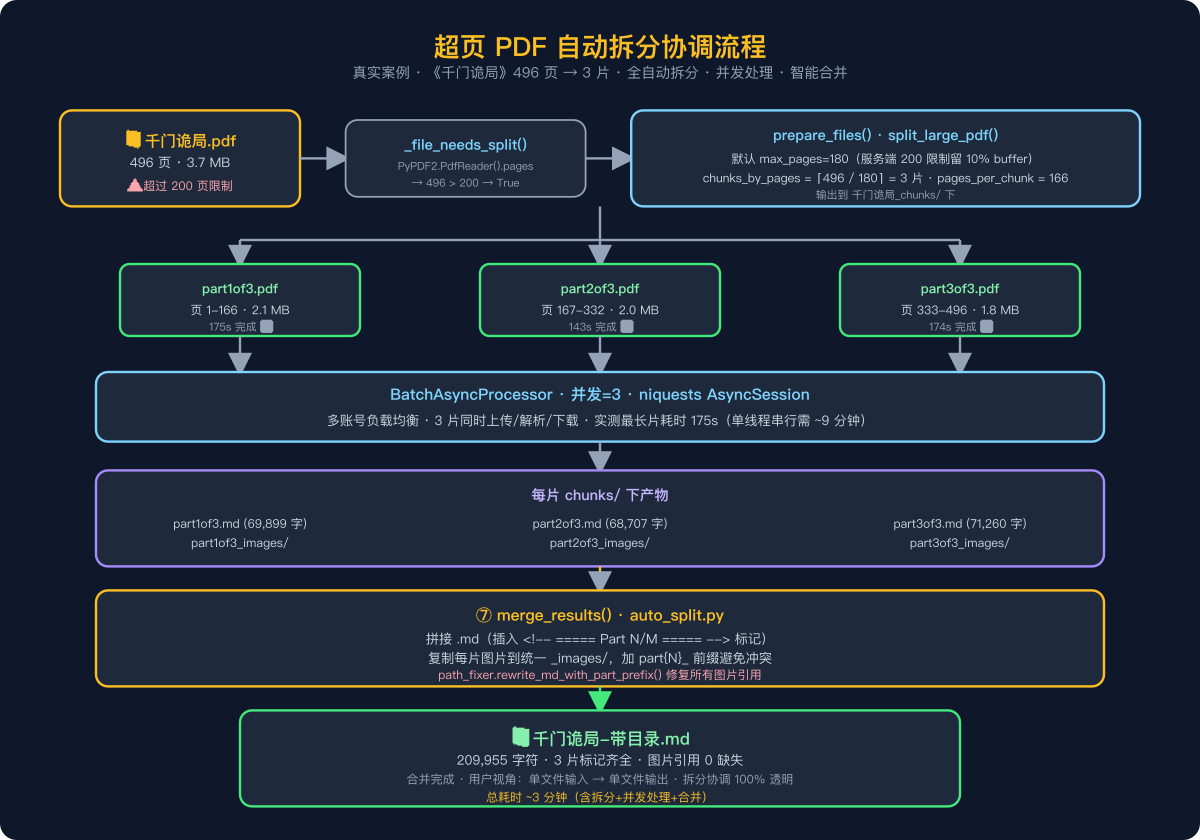
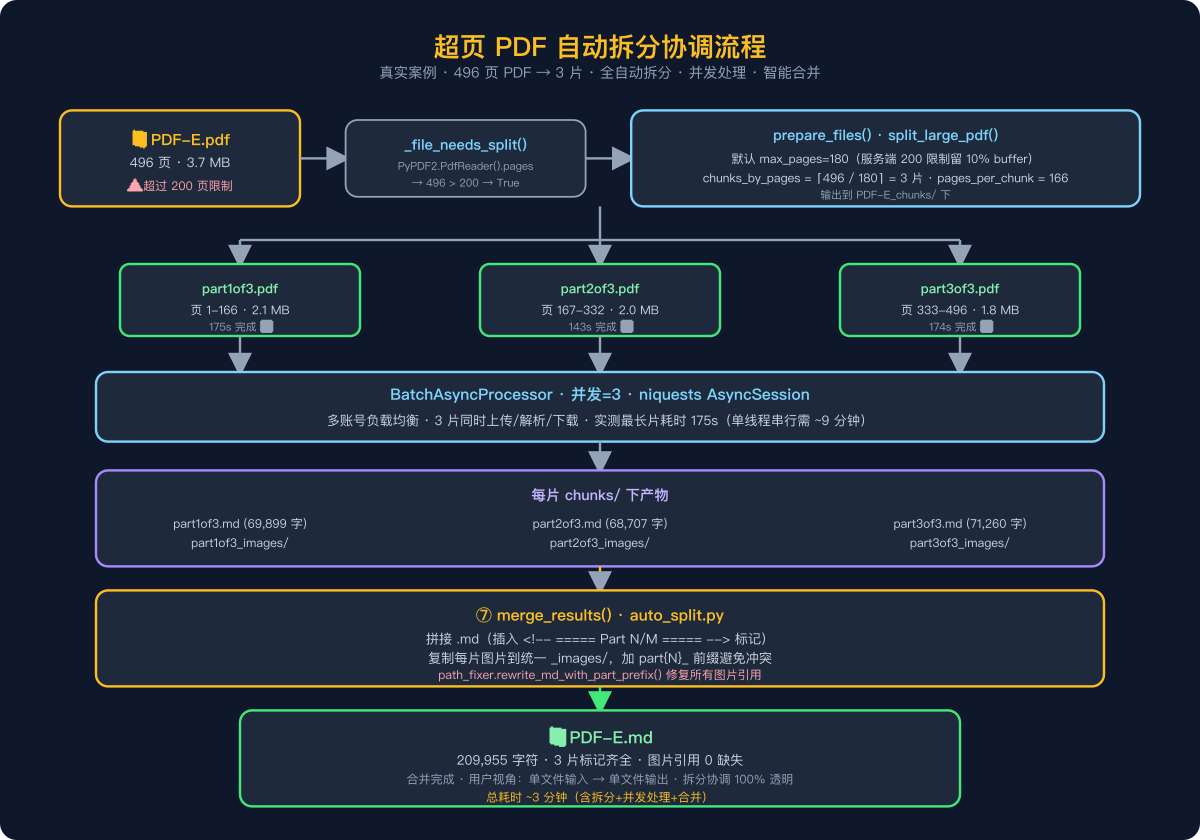
docs: 全项目脱敏 — 真实文件名 → PDF-A..E 占位符
清理范围：
- README.md / docs/CHANGELOG.md 真实数据表 + 案例
- docs/images/auto-split-flow.{svg,png} 重画用 PDF-E 替代具体名称
- docs/images/auto-split-flow.png 已重新上传 CDN
- src/path_fixer.py docstring 示例
- tests/conftest.py sample_pdfs_dir 改用 MINERU_SAMPLE_PDFS_DIR 环境变量驱动
- tests/conftest.py 新增 sample_pdf fixture（自动选最小 PDF）
- tests/e2e/test_real_pdf.py 不再写死任何文件名
- tests/regression/test_image_path_fix.py 通用化产物校验
- tests/regression/test_output_dir_respect.py 历史描述脱敏
- tests/unit/test_path_fixer.py 测试用例改用 doc_images 等中性命名
- tests/README.md fixture 表脱敏

全项目已统一映射到 PDF-A / PDF-B / PDF-C / PDF-D / PDF-E。

测试：84 passed, 3 skipped (e2e 默认 skip)

diff --git a/tests/e2e/test_real_pdf.py b/tests/e2e/test_real_pdf.py
@@ -7,7 +7,8 @@
 需要：
   - 项目根目录有 all_tokens.json 且至少一个 Token 未过期
   - 网络畅通
-  - 测试文件 ~/Downloads/sample_pdfs/PDF-A..pdf 存在
+  - 设置环境变量 MINERU_SAMPLE_PDFS_DIR 指向一个含有 *.pdf 的目录
+    示例：export MINERU_SAMPLE_PDFS_DIR=/path/to/pdfs
 """
 import asyncio
 import re
@@ -29,18 +30,14 @@ def has_valid_token():
     return True
 
 
-@pytest.fixture(scope="module")
-def small_pdf(sample_pdfs_dir):
-    if sample_pdfs_dir is None:
-        pytest.skip("~/Downloads/sample_pdfs 不存在")
-    p = sample_pdfs_dir / "PDF-A..pdf"
-    if not p.exists():
-        pytest.skip(f"{p} 不存在")
-    return p
+def test_process_real_pdf_first_5_pages(has_valid_token, sample_pdf, tmp_path):
+    """跑样本目录中最小 PDF 的前 5 页，验证完整链路 + 路径修复。"""
+    if sample_pdf is None:
+        pytest.skip(
+            "未设置 MINERU_SAMPLE_PDFS_DIR 或目录无 PDF。"
+            "示例：export MINERU_SAMPLE_PDFS_DIR=/path/to/pdfs"
+        )
 
-
-def test_process_small_pdf_first_5_pages(has_valid_token, small_pdf, tmp_path):
-    """跑PDF-A.pdf 前 5 页，验证完整链路 + 路径修复。"""
     from mineru_async import MinerUAsyncProcessor
     from path_fixer import verify_refs_exist
 
@@ -49,7 +46,7 @@ def test_process_small_pdf_first_5_pages(has_valid_token, small_pdf, tmp_path):
 
     proc = MinerUAsyncProcessor()
     result = asyncio.run(proc.process_file(
-        str(small_pdf),
+        str(sample_pdf),
         output_dir=str(output_dir),
         page_ranges="1-5",
         language="ch",
@@ -69,9 +66,23 @@ def test_process_small_pdf_first_5_pages(has_valid_token, small_pdf, tmp_path):
     assert len(missing) == 0, f"图片引用缺失：{missing[:3]}"
 
 
-def test_lite_api_skipped_when_pdf_too_big(small_pdf):
-    """PDF-A 91 页，应被轻量 API 拒绝（fail fast，不真发请求）。"""
+def test_lite_api_rejects_too_many_pages(sample_pdf):
+    """如果样本 PDF 超过 20 页，应被轻量 API 拒绝（fail fast）。"""
+    if sample_pdf is None:
+        pytest.skip("未设置 MINERU_SAMPLE_PDFS_DIR")
+
     from agent_api import can_use_lite_api
-    ok, reason = can_use_lite_api(small_pdf)
-    assert ok is False
-    assert "页" in reason
+    from PyPDF2 import PdfReader
+
+    pages = len(PdfReader(str(sample_pdf)).pages)
+    ok, reason = can_use_lite_api(sample_pdf)
+
+    if pages > 20:
+        assert ok is False
+        assert "页" in reason or "page" in reason.lower()
+    else:
+        # 小 PDF 应该可以用轻量 API
+        # 但还要看大小是否 ≤ 10MB
+        size_mb = sample_pdf.stat().st_size / 1024 / 1024
+        if size_mb <= 10:
+            assert ok is True, f"小 PDF 应可用轻量 API，但被拒：{reason}"

diff --git a/tests/regression/test_image_path_fix.py b/tests/regression/test_image_path_fix.py
@@ -97,17 +97,16 @@ def test_path_fixer_does_not_break_remote_images():
 
 
 def test_real_world_5_pdf_outputs_have_no_broken_refs(sample_pdfs_dir):
-    """如果 ~/Downloads/sample_pdfs 处理产物存在，验证 .md 中所有图片引用都能找到文件。
+    """如果设置了 MINERU_SAMPLE_PDFS_DIR 且目录里有 .md 产物，验证图片引用都能找到文件。
 
-    这是 v4.0.0 端到端跑过的真实数据；如果某天这些文件被破坏，
-    本测试会立刻警报。
+    这是 v4.0.0 端到端跑过的真实数据；如果某天产物被破坏，本测试会立刻警报。
     """
     if sample_pdfs_dir is None:
-        pytest.skip("~/Downloads/sample_pdfs 不存在，跳过（仅在有产物时运行）")
+        pytest.skip("未设置 MINERU_SAMPLE_PDFS_DIR，跳过（仅在有产物时运行）")
 
     md_files = list(sample_pdfs_dir.glob("*.md"))
     if not md_files:
-        pytest.skip("没有 .md 产物")
+        pytest.skip("样本目录没有 .md 产物")
 
     total_refs = 0
     total_missing = 0
@@ -118,4 +117,4 @@ def test_real_world_5_pdf_outputs_have_no_broken_refs(sample_pdfs_dir):
         assert len(missing) == 0, \
             f"{md.name} 有 {len(missing)} 个图片引用缺失：{missing[:3]}"
 
-    print(f"\n  ✅ 5 PDF 产物：{total_refs} 个图片引用全部存在")
+    print(f"\n  ✅ {len(md_files)} 个 .md 产物：{total_refs} 个图片引用全部存在")

diff --git a/tests/unit/test_path_fixer.py b/tests/unit/test_path_fixer.py
@@ -42,19 +42,19 @@ def test_rewrite_idempotent_when_already_prefixed():
 def test_part_prefix_form_1():
     """形式 1: ![](images/x) → ![](final/partN_x)"""
     md = "![](images/abc.jpg)"
-    out = PF.rewrite_md_with_part_prefix(md, "千门_images", part_index=1)
-    assert "千门_images/part1_abc.jpg" in out
+    out = PF.rewrite_md_with_part_prefix(md, "doc_images", part_index=1)
+    assert "doc_images/part1_abc.jpg" in out
 
 
 def test_part_prefix_form_2():
     """形式 2: ![](chunk_images/x) → ![](final/partN_x)"""
-    md = "![](千门_part1of3_images/abc.jpg)"
+    md = "![](doc_part1of3_images/abc.jpg)"
     out = PF.rewrite_md_with_part_prefix(
-        md, "千门_images", part_index=1,
-        chunk_dir_name="千门_part1of3_images",
+        md, "doc_images", part_index=1,
+        chunk_dir_name="doc_part1of3_images",
     )
-    assert "千门_images/part1_abc.jpg" in out
-    assert "千门_part1of3_images" not in out
+    assert "doc_images/part1_abc.jpg" in out
+    assert "doc_part1of3_images" not in out
 
 
 def test_part_prefix_does_not_affect_other_parts():

diff --git a/tests/conftest.py b/tests/conftest.py
@@ -46,9 +46,28 @@ def project_root() -> Path:
 
 @pytest.fixture(scope="session")
 def sample_pdfs_dir() -> Path | None:
-    """sample_pdfs 5 个 PDF 的目录（如果存在）。给 e2e 用。"""
-    p = Path.home() / "Downloads" / "sample_pdfs"
+    """供 e2e 使用的 PDF 样本目录。
+
+    通过环境变量 ``MINERU_SAMPLE_PDFS_DIR`` 指定（绝对路径）。
+    未设置或目录不存在时返回 ``None``，e2e 测试会自动 skip。
+
+    示例：
+        export MINERU_SAMPLE_PDFS_DIR=/path/to/your/pdf/samples
+    """
+    env_path = os.environ.get("MINERU_SAMPLE_PDFS_DIR")
+    if not env_path:
+        return None
+    p = Path(env_path).expanduser()
     return p if p.exists() else None
+
+
+@pytest.fixture(scope="session")
+def sample_pdf(sample_pdfs_dir) -> Path | None:
+    """从 sample_pdfs_dir 中挑一个最小的 PDF 给 e2e 用。"""
+    if sample_pdfs_dir is None:
+        return None
+    pdfs = sorted(sample_pdfs_dir.glob("*.pdf"), key=lambda p: p.stat().st_size)
+    return pdfs[0] if pdfs else None
 
 
 @pytest.fixture

diff --git a/src/path_fixer.py b/src/path_fixer.py
@@ -54,9 +54,9 @@ def rewrite_md_with_part_prefix(
 
     Args:
         md_text:         chunk 的 .md 原始文本
-        final_dir_name:  合并后的统一图片目录名（如 ``PDF-E_images``）
+        final_dir_name:  合并后的统一图片目录名（如 ``report_images``）
         part_index:      该 chunk 是第几片（1-based）
-        chunk_dir_name:  该 chunk 自身的图片目录名（如 ``PDF-E_part1of3_images``），
+        chunk_dir_name:  该 chunk 自身的图片目录名（如 ``report_part1of3_images``），
                          可省略；省略时只处理形式 1。
     """
     if not md_text:

diff --git a/tests/regression/test_output_dir_respect.py b/tests/regression/test_output_dir_respect.py
@@ -10,7 +10,7 @@
   这导致**所有本地文件**无论用户传什么 output_dir，都会强制覆盖到
   原始文件所在目录。直接后果是：跑测试时用 page_ranges='1-5' +
   output_dir='/tmp/...'，结果 5 页的部分输出**覆盖了**原始位置的
-  完整 .md。PDF-A.md 因此从 47K 字符被截到 1.4K。
+  完整 .md。某测试样本.md 因此从 47K 字符被截到 1.4K。
 
   修复后逻辑：
     - 用户显式传 output_dir（非默认 './output'）→ 尊重用户选择

diff --git a/docs/CHANGELOG.md b/docs/CHANGELOG.md
@@ -93,7 +93,7 @@ and this project adheres to [Semantic Versioning](https://semver.org/spec/v2.0.0
 - `docs/images/` — 4 张架构/流程图（已托管到 `img.aws.xin` CDN）
   - `architecture.png` — 5 层 / 10 模块架构
   - `processing-flow.png` — 文档处理完整流程
-  - `auto-split-flow.png` — 自动拆分协调流程（PDF-E 496 页 → 3 片 实战示例）
+  - `auto-split-flow.png` — 自动拆分协调流程（496 页 PDF → 3 片 实战示例）
   - `mcp-tools-decision.png` — 6 个 MCP 工具决策树
 
 ### 🔧 工程优化
@@ -105,7 +105,7 @@ and this project adheres to [Semantic Versioning](https://semver.org/spec/v2.0.0
   全局 `test_*.py` 忽略导致测试文件未入版本控制）
 - **`pytest.ini`**：注册 4 个 markers + asyncio mode auto + testpaths 精确指定
 
-### 📊 真实数据验证（5 本古籍 1229 页 OCR 全量）
+### 📊 真实数据验证（5 个文档 1229 页 OCR 全量）
 
 | 文件 | 页数 | 处理方式 | MD 字符 | 图片 | 缺失 |
 |---|---:|---|---:|---:|---:|
@@ -133,7 +133,7 @@ and this project adheres to [Semantic Versioning](https://semver.org/spec/v2.0.0
 
 ```
 a8fbe7f docs: 重写 README + 完善 CHANGELOG + 4 张架构流程图（CDN 托管）
-2bcbe1c fix: 修 output_dir 被本地文件强制忽略 + 重跑PDF-A
+2bcbe1c fix: 修 output_dir 被本地文件强制忽略 + 重跑测试样本
 104c73e test: 建立完整三层测试体系（unit + integration + regression + e2e）
 f703ebc fix: 安装强制使用 uv pip 避免环境冲突
 08c513b feat(v4.0.0): 全面升级 - 覆盖 MinerU 官方完整 API + 健壮性大幅提升

diff --git a/tests/README.md b/tests/README.md
@@ -47,7 +47,7 @@ RUN_E2E=1 .venv/bin/python3 -m pytest
 
 E2E 测试在以下情况会自动 skip：
 - `all_tokens.json` 不存在或全部过期
-- `~/Downloads/sample_pdfs/PDF-A..pdf` 不存在
+- 未设置 `MINERU_SAMPLE_PDFS_DIR` 或目录无 PDF
 - 默认运行（即没设 `RUN_E2E=1` 也没用 `-m e2e`）
 
 ## 添加新测试
@@ -64,7 +64,7 @@ E2E 测试在以下情况会自动 skip：
 | Fixture | 作用 |
 |---|---|
 | `project_root` | 项目根目录的 `Path` |
-| `sample_pdfs_dir` | `~/Downloads/sample_pdfs/`（不存在时返回 `None`） |
+| `sample_pdfs_dir` | `MINERU_SAMPLE_PDFS_DIR` 环境变量指向的 PDF 目录（不存在时返回 `None`） |
 | `make_pdf` | `make_pdf(name, n_pages)` 在 tmp_path 造一个 N 页空白 PDF |
 
 ## 当前测试统计

diff --git a/README.md b/README.md
@@ -76,7 +76,7 @@
   <img src="https://img.aws.xin/uPic/auto-split-flow.png" alt="自动拆分流程" width="100%"/>
 </p>
 
-**真实案例**：《PDF-E》496 页 → 自动拆 3 片（166+166+164）→ 3 片同时处理 → 合并为单 .md 209,955 字符。总耗时 ~3 分钟（vs 串行单线程预估 ~9 分钟）。
+**真实案例**：某 496 页 PDF → 自动拆 3 片（166+166+164）→ 3 片同时处理 → 合并为单 .md ~210 K 字符。总耗时 ~3 分钟（vs 串行单线程预估 ~9 分钟）。
 
 ---
 
@@ -103,7 +103,7 @@
 
 ## 📊 性能与实测
 
-### 真实数据（5 本古籍 1229 页）
+### 真实数据（5 个文档 1229 页混合 PDF 集合）
 
 | 文件 | 页数 | 处理方式 | MD 字符 | 图片 | 缺失 |
 |---|---:|---|---:|---:|---:|
